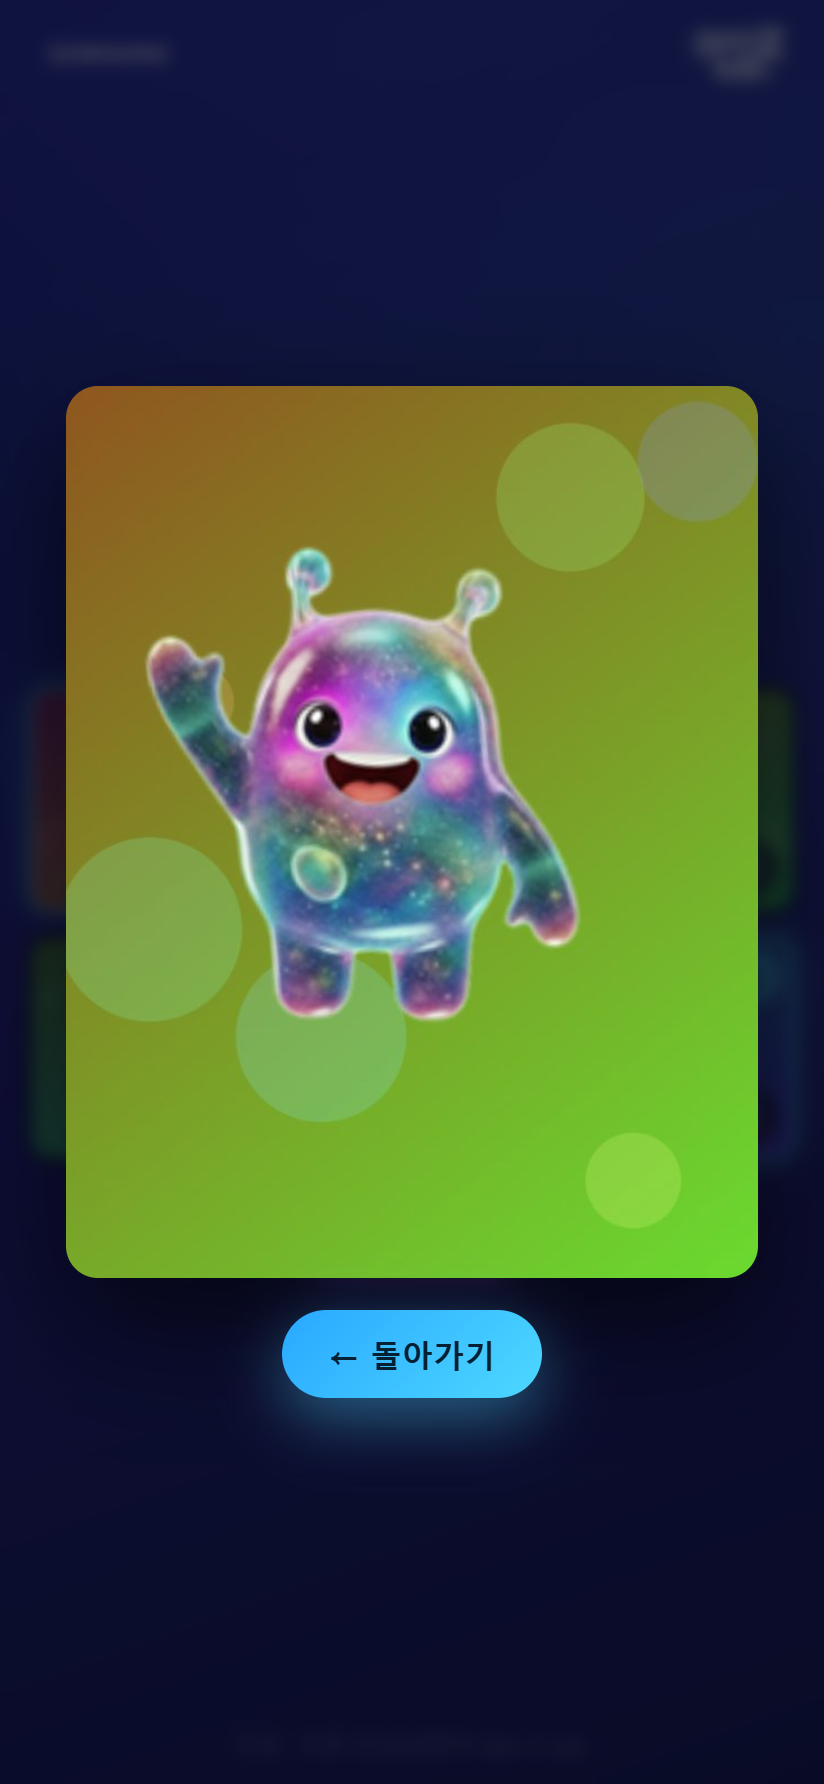
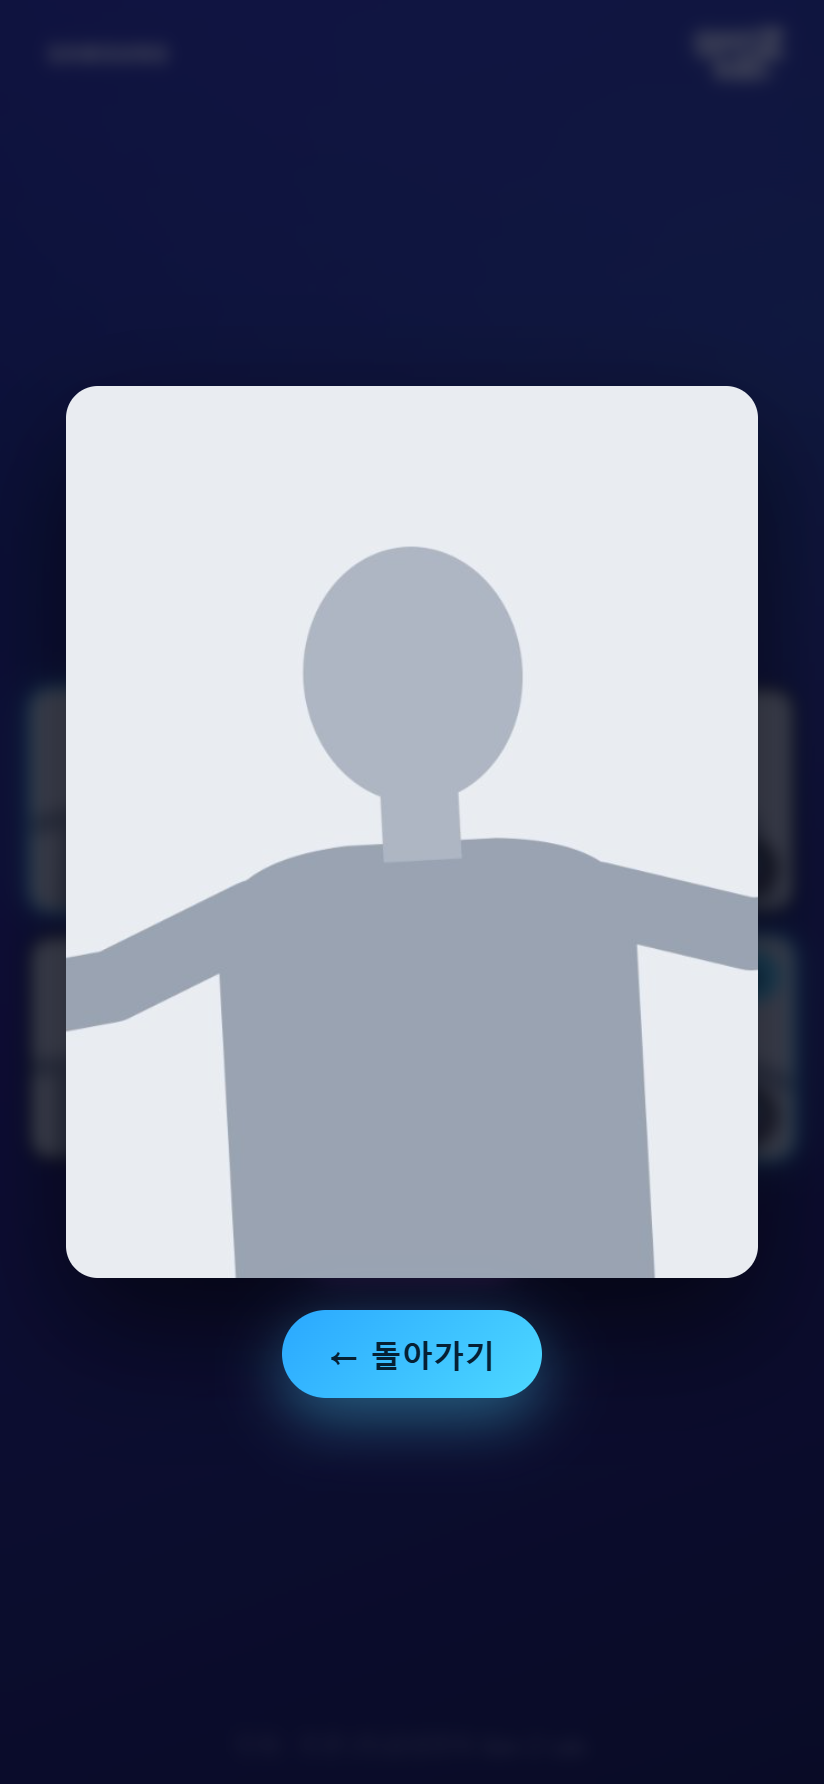
스크린샷을 사람 모형·단색 배경 데모 화면으로 교체

diff --git a/docs/SCENARIO.md b/docs/SCENARIO.md
@@ -1,7 +1,7 @@
 # 사용 시나리오
 
 부스를 켜는 순간부터 손님이 자기 폰에 사진·영상을 저장할 때까지의 흐름입니다.
-스크린샷은 실제 인물 대신 마스코트 **글리밍**이 나오는 데모용 카메라 화면으로 촬영했습니다.
+스크린샷은 실제 인물 대신 단색 배경의 사람 모형이 나오는 데모용 카메라 화면으로 촬영했습니다.
 
 - [A. 기본 시나리오 — 이 기기 카메라로 촬영](#a-기본-시나리오--이-기기-카메라로-촬영)
 - [B. 손님 폰 — QR로 저장](#b-손님-폰--qr로-저장)

diff --git a/README.md b/README.md
@@ -14,7 +14,7 @@
   <img src="docs/screenshots/13-qr.png" width="200" alt="QR" />
 </p>
 
-> 스크린샷은 실제 인물 대신 마스코트 **글리밍**이 나오는 데모용 카메라 화면으로 촬영했습니다.
+> 스크린샷은 실제 인물 대신 단색 배경의 사람 모형이 나오는 데모용 카메라 화면으로 촬영했습니다.
 
 ---
 
